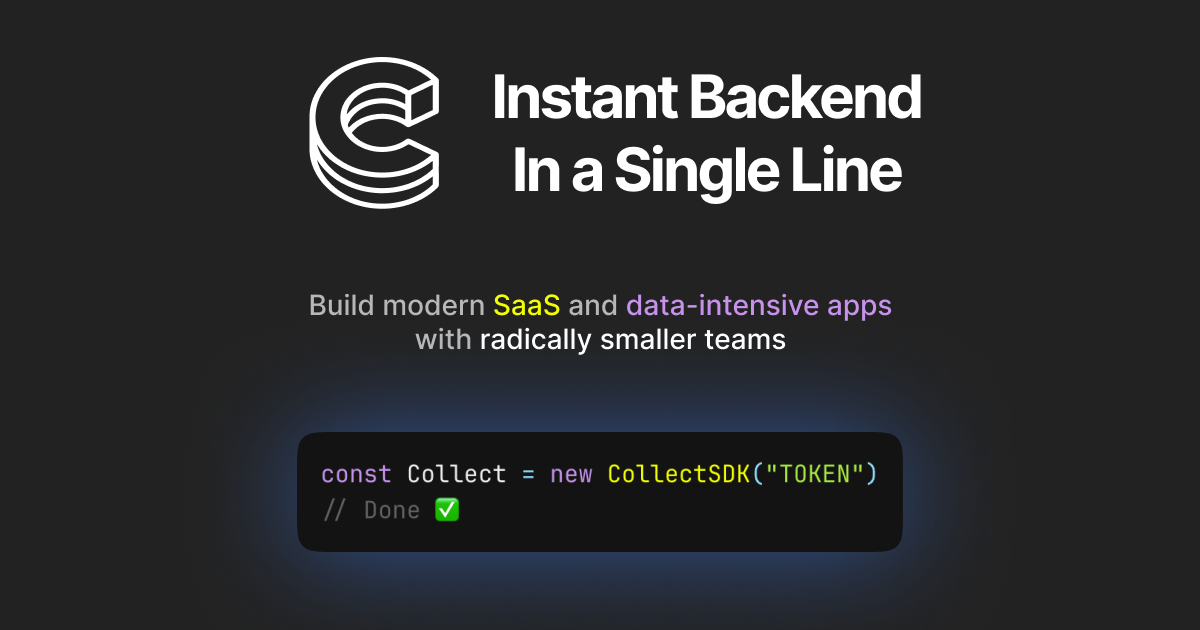
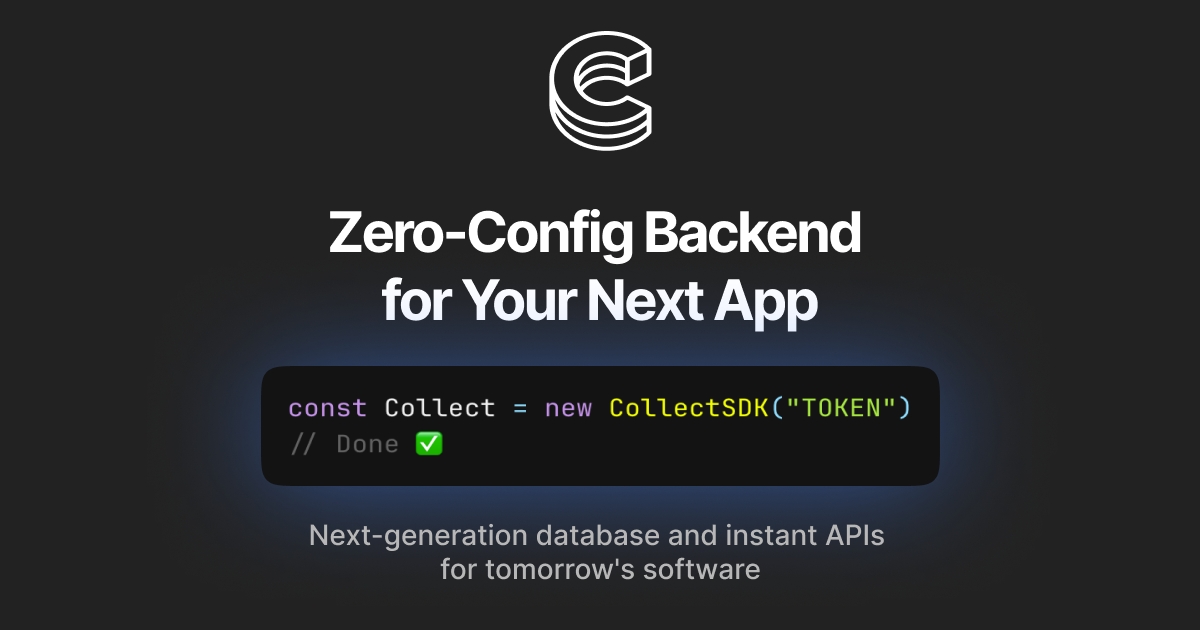
Update hero

Changed region(s): [[0.185, 0.0302, 0.8017, 0.9349]]

diff --git a/src/sections/FeaturesCards/index.tsx b/src/sections/FeaturesCards/index.tsx
@@ -1,6 +1,7 @@
 import classNames from "classnames"
 import {
   ArrowUpRight,
+  CheckIcon,
   Code,
   Cpu,
   Database,
@@ -17,6 +18,7 @@ import { Link } from "~/components/Link"
 import { Section } from "~/components/Section"
 import { WireBox } from "~/components/WireBox"
 import { links } from "~/config/urls"
+import cx from "classnames"
 
 const colors = {
   orange: "text-accent-orange",
@@ -37,23 +39,40 @@ const colorsBorder = {
 }
 
 const feats = [
+  // {
+  //   icon: Zap,
+  //   title: "Easy Setup",
+  //   className: cx("row-span-2 col-span-1"),
+  //   description: (
+  //     <>
+  //       Create an account, obtain an API Token, and hit the ground running. Just
+  //       a quick read through{" "}
+  //       <Link href={links.getStarted}>Getting Started</Link> guide (2 mins read)
+  //       equips you with all you need.
+  //     </>
+  //   ),
+  //
+  //   color: "purple",
+  // },
   {
-    icon: Zap,
-    title: "Easy Setup",
-    description: (
-      <>
-        Create an account, obtain an API Token, and hit the ground running. Just
-        a quick read through{" "}
-        <Link href={links.getStarted}>Getting Started</Link> guide (2 mins read)
-        equips you with all you need.
-      </>
-    ),
-
-    color: "purple",
+    icon: Database,
+    title: "Next Generation Database",
+    className: cx("row-span-2 col-span-1"),
+    description:
+      "Every project comes with our next-generation database, allowing you to handle deeply nested, complex data without sacrificing performance or reliability.",
+    color: "green",
+    points: [
+      "ACID Compliant Reliability",
+      "No Query Language Required",
+      "Lightning-Fast 2ms Writes",
+      "Zero Data Modeling Hassles",
+      "Instantly Normalize Any JSON/CSV",
+    ],
   },
   {
-    icon: Cpu,
+    icon: Zap,
     title: "Kept Simple and Efficient",
+    className: cx("row-span-1 col-span-1"),
     description: (
       <>
         Performance is Collect's top priority. Streamlined architecture ensures
@@ -62,39 +81,41 @@ const feats = [
       </>
     ),
     color: "orange",
+    points: [],
   },
   {
     icon: Search,
     title: "Ultimate Searching Features",
+    className: cx("row-span-1"),
     color: "blue",
-    description: (
-      <>
-        Navigating through large and complex datasets is always challenging.
-        Building feature-rich search engines with Collect is not a big deal
-        anymore. Even for truly complex scenarios.
-      </>
-    ),
+    description:
+      "Effortlessly navigate through large and complex datasets with Collect. Collect simplifies the creation of feature-rich search engines, handling even the most complex scenarios with ease.",
+    // description: (
+    //   <>
+    //     Navigating through large and complex datasets is always challenging.
+    //     Building feature-rich search engines with Collect is not a big deal
+    //     anymore. Even for truly complex scenarios.
+    //   </>
+    // ),
+    points: [],
   },
   {
     icon: Code,
     color: "pink",
     title: "Type-Safe by Design",
+    className: cx("row-span-1 "),
     description:
       "Enjoy automated type inference and suggestions without writing any types or interfaces. This ensures your code remains clean, efficient, and error-free.",
-  },
-  {
-    icon: Database,
-    color: "green",
-    title: "Single Repository for All Your Data",
-    description:
-      "Organize and access all your data effortlessly with Collect. Intuitive platform provides a centralized knowledge database, making data management and retrieval simple and efficient.",
+    points: [],
   },
   {
     icon: Layers,
     color: "red",
     title: "Framework Agnostic",
+    className: cx("row-span-1 col-span-1"),
     description:
-      "Collect could be easily integrated into any stack and any programming language through robust and powerful REST API and SDK, while keeping things simple.",
+      "Collect seamlessly integrates with any tech stack or programming language through its robust REST API and SDK, maintaining simplicity while offering powerful functionality.",
+    points: [],
   },
 ] as const
 
@@ -103,33 +124,38 @@ const Feat = ({
   description,
   icon: Icon,
   color = "orange",
+  className,
   idx,
+  points,
 }: {
   title: ReactNode
   description: ReactNode
   icon: FunctionComponent<{ className?: string }>
   color: keyof typeof colors
+  className: string
+  points: ReadonlyArray<string>
   idx: number
 }) => {
   return (
     <GridItem
       idx={idx}
-      lastOfFirstRow="!bg-gradient-to-bl !rounded-tr-3xl"
-      firstOfLastRow="!bg-gradient-to-tr !rounded-bl-3xl"
+      lastOfFirstRow="!bg-gradient-to-bl"
+      firstOfLastRow="!bg-gradient-to-tr"
       firstOfMiddleRow="bg-gradient-to-r"
       lastOfMiddleRow="bg-gradient-to-l"
       middleOfFirstRow="bg-gradient-to-b"
       middleOfLastRow="bg-gradient-to-t"
       className={classNames(
         colorsBorder[color],
+        className,
         "p-0.5 rounded-xl relative group grid to-stroke",
-        "first:bg-gradient-to-br first:rounded-tl-3xl",
-        "last:bg-gradient-to-tl last:rounded-br-3xl",
+        "first:bg-gradient-to-br",
+        "last:bg-gradient-to-tl",
       )}
     >
       <div
         className={classNames(
-          "p-7 bg-fill rounded-3xl relative overflow-hidden",
+          "p-7 bg-fill rounded-3xl relative overflow-hidden flex",
           "rounded-[inherit]",
         )}
       >
@@ -144,7 +170,7 @@ const Feat = ({
           <div className="absolute inset-0 h-full w-full to-60% bg-gradient-to-b from-transparent to-fill pointer-events-none" />
         </div>
 
-        <div className="relative z-10 flex flex-col gap-4">
+        <div className="self-center relative z-10 flex flex-col gap-4 ">
           <Icon className={classNames("w-12 h-12", colors[color])} />
 
           <h3 className="typography-lg font-semibold text-content">
@@ -160,6 +186,16 @@ const Feat = ({
           </h3>
 
           <p className="typography-base text-content2">{description}</p>
+          {points.length ? (
+            <div className="flex flex-col mt-8 gap-2">
+              {points?.map((p) => (
+                <div className="flex items-center" key={p}>
+                  <CheckIcon size={16} className="text-green-500" />
+                  <span className="text-base">{p}</span>
+                </div>
+              ))}
+            </div>
+          ) : null}
         </div>
       </div>
     </GridItem>
@@ -169,15 +205,22 @@ const Feat = ({
 export function FeaturesCards() {
   return (
     <Section className="container">
-      <Grid className="gap-5" desktopCols={3} tabletCols={2} mobileCols={1}>
+      <Grid
+        className="grid-rows-2  gap-5"
+        desktopCols={3}
+        tabletCols={2}
+        mobileCols={1}
+      >
         {feats.map((feat, idx) => {
           return (
             <Feat
               key={feat.title}
               icon={feat.icon}
+              className={feat.className}
               title={feat.title}
               description={feat.description}
               color={feat.color}
+              points={feat.points}
               idx={idx}
             />
           )

diff --git a/src/sections/Hero/index.tsx b/src/sections/Hero/index.tsx
@@ -6,7 +6,7 @@ import { useRef } from "react"
 import { motion } from "framer-motion"
 
 import { Button, MainCta } from "~/components/Button"
-import { defaultTitle } from "~/components/Meta"
+import { defaultDescription, defaultTitle } from "~/components/Meta"
 import { LetterTypingText } from "~/components/LetterTypingText"
 import { links } from "~/config/urls"
 import { CodeBlock } from "~/components/CodeBlock"
@@ -31,48 +31,48 @@ export const Hero = () => {
       <div className="flex">
         <motion.section
           className={cx(
-            "h-[100dvh] container grid pb-36 place-content-center fixed z-0 inset-0 grid-cols-2",
+            "h-[100dvh] container grid pb-36 place-content-center fixed z-0 inset-0 grid-cols-5",
             "sm:place-content-start sm:pt-32 sm:pb-12 sm:static sm:h-auto sm:!opacity-100 md:!grid-cols-1",
           )}
           style={{ opacity }}
         >
-          <div className="flex flex-col gap-10 relative z-0 sm:h-auto m-auto">
-            <div className="flex flex-col gap-5">
+          <div className="col-span-3 flex flex-col gap-10 relative z-0 sm:h-auto m-auto">
+            <div className="flex flex-col gap-5 ">
               <LetterTypingText
                 as="h1"
                 className={cx(
-                  "typography-4xl !tracking-tight !font-black !mb-0 md:text-2xl max-w-[34rem]",
+                  "typography-4xl !tracking-tight !font-black !mb-0 md:text-2xl max-w-[48rem]",
                 )}
                 animate
               >
                 {defaultTitle}
               </LetterTypingText>
 
-              <p className={cx("typography-lg text-content2 !tracking-normal")}>
-                For building modern <span className="text-accent">SaaS</span>{" "}
-                and{" "}
-                <span className="text-accent-purple">Data-intensive Apps</span>{" "}
-                <br /> with{" "}
-                <span className="text-content">radically smaller teams</span>
+              <p
+                className={cx(
+                  "typography-lg text-content2 !tracking-normal max-w-[32rem]",
+                )}
+              >
+                {defaultDescription}
               </p>
             </div>
 
-            <div className="flex gap-4 sm:flex-col">
+            <div className=" flex gap-4 sm:flex-col">
+              <MainCta variant="accent" className="min-w-[170px]" />
+
               <Button
                 className="min-w-[170px]"
                 as={Link}
                 href={links.getStarted}
                 variant="secondary"
               >
-                Read the Docs <BookText />
+                Documentation <BookText />
               </Button>
-
-              <MainCta variant="accent" className="min-w-[170px]" />
             </div>
           </div>
           <CodeBlock
             code={code}
-            className="lg:w-fit lg:m-auto grid place-content-center md:!m-0 md:!mt-10 md:w-full "
+            className="col-span-2 lg:w-fit lg:m-auto grid place-content-center md:!m-0 md:!mt-10 md:w-full "
             preClassName="md:w-full drop-shadow-[0px_0px_60px_rgba(63,129,255,0.3)]"
           />
         </motion.section>

diff --git a/src/components/Layout/header/index.tsx b/src/components/Layout/header/index.tsx
@@ -86,10 +86,10 @@ function MobileMenu() {
               className="fixed z-20 top-0 bg-fill/90 w-full pt-16 pb-4 rounded-b-2xl shadow-lg backdrop-blur-sm"
             >
               <div className="container divide-y">
-                <MenuItem href={links.docs}>Docs</MenuItem>
-                <MenuItem href={links.tutorials}>Tutorials</MenuItem>
-                <MenuItem href={socials.blog}>Blog</MenuItem>
                 <MenuItem href={links.pricing}>Pricing</MenuItem>
+                <MenuItem href={socials.blog}>Blog</MenuItem>
+                <MenuItem href={links.docs}>Docs</MenuItem>
+                {/*<MenuItem href={links.tutorials}>Tutorials</MenuItem>*/}
               </div>
 
               <div className="h-0.5 bg-stroke my-4" />
@@ -153,25 +153,6 @@ function Nav() {
   return (
     <nav className="flex items-center">
       <div className="flex items-center mr-3 sm:hidden">
-        <Button variant="primaryText" as={Link} size="small" href={links.docs}>
-          Docs
-        </Button>
-        <Button
-          variant="primaryText"
-          as={Link}
-          size="small"
-          href={links.tutorials}
-        >
-          Tutorials
-        </Button>
-        <Button
-          variant="primaryText"
-          as={Link}
-          size="small"
-          href={socials.blog}
-        >
-          Blog
-        </Button>
         <Button
           variant="primaryText"
           as={Link}
@@ -179,6 +160,25 @@ function Nav() {
           href={links.pricing}
         >
           Pricing
+        </Button>
+        <Button variant="primaryText" as={Link} size="small" href={links.docs}>
+          Docs
+        </Button>
+        {/*<Button*/}
+        {/*  variant="primaryText"*/}
+        {/*  as={Link}*/}
+        {/*  size="small"*/}
+        {/*  href={links.tutorials}*/}
+        {/*>*/}
+        {/*  Tutorials*/}
+        {/*</Button>*/}
+        <Button
+          variant="primaryText"
+          as={Link}
+          size="small"
+          href={socials.blog}
+        >
+          Blog
         </Button>
       </div>
 

diff --git a/src/components/Meta.tsx b/src/components/Meta.tsx
@@ -2,10 +2,10 @@ import Head from "next/head"
 import { useRouter } from "next/router"
 import { getAbsoluteURL } from "~/utils"
 
-export const defaultTitle = "Instant Backend In a Single Line"
+export const defaultTitle = "Zero-Config Backend for Your Next App"
 
 export const defaultDescription =
-  "Build modern SaaS and data-intensive apps with radically smaller teams."
+  "Next-generation database and instant APIs for tomorrow's software"
 
 export const Meta = ({
   title = defaultTitle,
